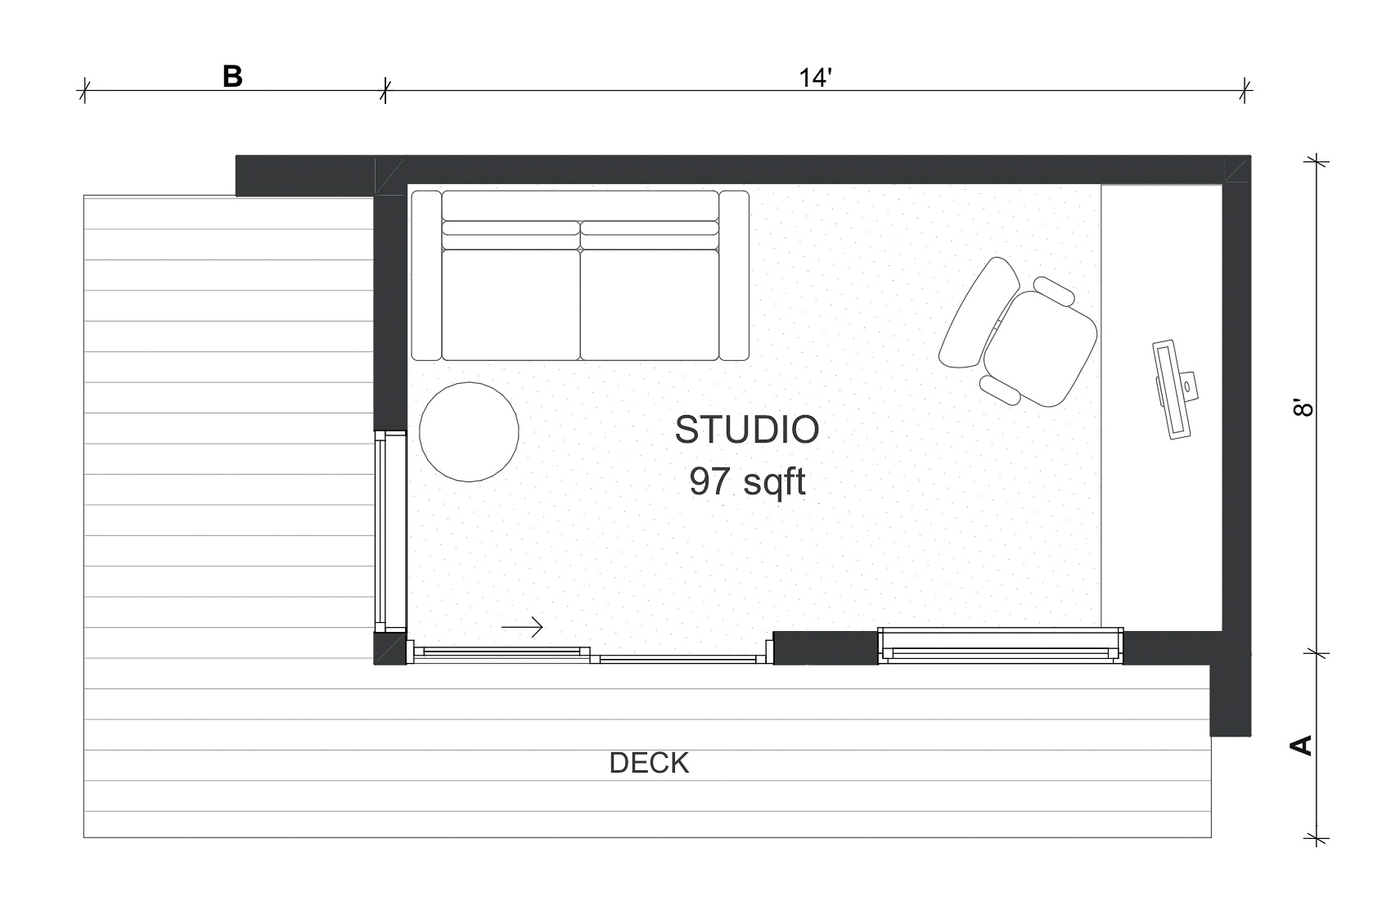
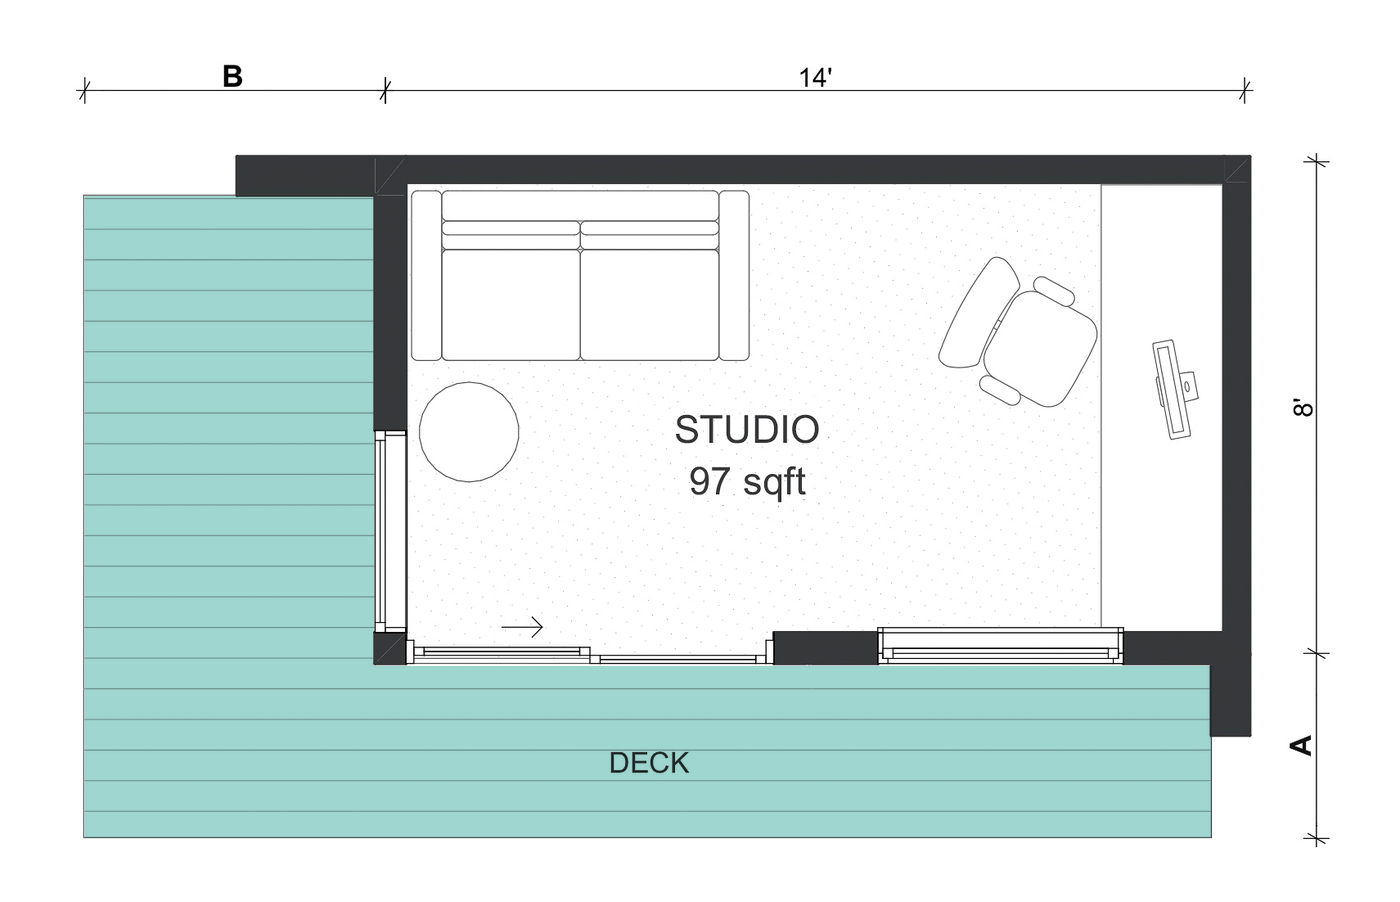
Presidio XO 0.4.0 (v4/): deck drawings shorter with the deck highlighted, visible Select button, step size in feet

Changed region(s): [[0.0614, 0.2173, 0.8907, 0.9313]]

diff --git a/v4/styles.css b/v4/styles.css
@@ -223,7 +223,17 @@ textarea.wm-input { min-height: 112px; resize: vertical; }
   display: block;
   background: var(--wm-teal-mist);
 }
-.photo.drawing img { aspect-ratio: 4 / 3; object-fit: contain; background: var(--wm-white); border: 1px solid var(--wm-teal-line); }
+/* Drawings: a short frame (the deck is what matters, not the studio) and a visible Select button
+   under it, so nobody has to guess that the drawing itself is the button. */
+.photo.drawing { display: grid; grid-template-columns: 1fr auto; column-gap: 12px; align-items: center; width: 100%; }
+.photo.drawing img { grid-column: 1 / -1; aspect-ratio: auto; height: 170px; object-fit: contain; background: var(--wm-white); border: 1px solid var(--wm-teal-line); }
+.photo.drawing .name, .photo.drawing .wm-tag, .photo.drawing .tag-q { grid-column: 1; justify-self: start; }
+.photo.drawing .pick { grid-column: 2; grid-row: 2 / span 2; margin-top: 8px; display: inline-flex; align-items: center; justify-content: center;
+  min-height: var(--wm-tap); min-width: 104px; padding: 0 18px; border-radius: var(--wm-radius-pill); border: 1px solid var(--wm-teal);
+  color: var(--wm-teal); background: var(--wm-white); font: 500 13px var(--wm-font); text-transform: uppercase; letter-spacing: .12px; }
+.photo.drawing .pick::before { content: "Select"; }
+.photo.drawing[aria-pressed="true"] .pick { background: var(--wm-teal); color: var(--wm-white); }
+.photo.drawing[aria-pressed="true"] .pick::before { content: "\2713  Selected"; }
 .photo[aria-pressed="true"] img { outline-color: var(--wm-teal); }
 .photo .name { display: block; margin-top: 8px; font-size: 14px; font-weight: 500; line-height: 1.3; }
 .photo .wm-tag { margin-top: 8px; }
@@ -761,3 +771,4 @@ body.zoom-open { overflow: hidden; }
 
 .wm-input[aria-invalid="true"] { border-color: #a33522; }
 .hint.dimension-error { color: #97301e; }
+.photo.drawing .badge { display: none; } /* the Select button shows the state */

diff --git a/v4/index.html b/v4/index.html
@@ -5,8 +5,8 @@
 <meta name="viewport" content="width=device-width, initial-scale=1">
 <meta name="theme-color" content="#108078">
 <title>Spec form</title>
-<link rel="stylesheet" href="wellmade-tokens.css?v=6b2f86b2">
-<link rel="stylesheet" href="styles.css?v=6b2f86b2">
+<link rel="stylesheet" href="wellmade-tokens.css?v=fe66de98">
+<link rel="stylesheet" href="styles.css?v=fe66de98">
 </head>
 <body>
 <div id="app" class="app"></div>
@@ -15,10 +15,10 @@
   <p>This form needs JavaScript. It still opens from this folder, with no install and no server.</p>
 </noscript>
 <!-- The spec: generated from spec/presidio-xo.json by check_spec.py. Edit the .json, never the .js. -->
-<script src="spec/presidio-xo.js?v=6b2f86b2"></script>
+<script src="spec/presidio-xo.js?v=fe66de98"></script>
 <!-- Delivery settings (receiver address, allowed email domains): not part of the spec. -->
-<script src="site-config.js?v=6b2f86b2"></script>
-<script src="engine/model.js?v=6b2f86b2"></script>
-<script src="engine/app.js?v=6b2f86b2"></script>
+<script src="site-config.js?v=fe66de98"></script>
+<script src="engine/model.js?v=fe66de98"></script>
+<script src="engine/app.js?v=fe66de98"></script>
 </body>
 </html>

diff --git a/v4/manager.html b/v4/manager.html
@@ -7,8 +7,8 @@
 <meta name="robots" content="noindex">
 <meta name="referrer" content="no-referrer">
 <title>Internal · Client link · v0.3</title>
-<link rel="stylesheet" href="wellmade-tokens.css?v=6b2f86b2">
-<link rel="stylesheet" href="styles.css?v=6b2f86b2">
+<link rel="stylesheet" href="wellmade-tokens.css?v=fe66de98">
+<link rel="stylesheet" href="styles.css?v=fe66de98">
 </head>
 <body>
 <!-- data-form: the form page the link opens, relative to this page. -->
@@ -17,10 +17,10 @@
   <p>This page needs JavaScript.</p>
 </noscript>
 <!-- The spec: generated from spec/presidio-xo.json by check_spec.py. Its "link" block names the fields. -->
-<script src="spec/presidio-xo.js?v=6b2f86b2"></script>
+<script src="spec/presidio-xo.js?v=fe66de98"></script>
 <!-- Delivery settings (receiver address, allowed email domains): not part of the spec. -->
-<script src="site-config.js?v=6b2f86b2"></script>
-<script src="engine/model.js?v=6b2f86b2"></script>
-<script src="engine/manager.js?v=6b2f86b2"></script>
+<script src="site-config.js?v=fe66de98"></script>
+<script src="engine/model.js?v=fe66de98"></script>
+<script src="engine/manager.js?v=fe66de98"></script>
 </body>
 </html>

diff --git a/v4/spec/presidio-xo.js b/v4/spec/presidio-xo.js
@@ -1,4 +1,4 @@
-/* GENERATED by check_spec.py from presidio-xo.json (sha256 db41ac37326222fc). Do not edit; edit the .json and run the check. */
+/* GENERATED by check_spec.py from presidio-xo.json (sha256 7f3f60358ce3606d). Do not edit; edit the .json and run the check. */
 window.SPEC_DATA = {
  "specId": "presidio-xo",
  "specVersion": "0.4.0",
@@ -397,12 +397,12 @@ window.SPEC_DATA = {
      "options": [
       {
        "id": "step",
-       "label": "Step only (96\" x 12\")",
+       "label": "Step only (1 \u00d7 8 ft)",
        "image": "images/deck-step.png"
       },
       {
        "id": "standard",
-       "label": "Standard corner deck (93 sqft)",
+       "label": "Standard corner deck (93 sq ft)",
        "image": "images/deck-standard.png",
        "price": 6900
       },

diff --git a/v4/engine/app.js b/v4/engine/app.js
@@ -173,7 +173,8 @@
       h("span", { class: "badge", "aria-hidden": "true", text: "✓" }),
       h("img", { src: opt.image, alt: "", "aria-hidden": "true" }),
       h("span", { class: "name", text: opt.label }),
-      st.tag ? quoteTag(st, h("span", { class: "wm-tag", text: st.tag })) : null
+      st.tag ? quoteTag(st, h("span", { class: "wm-tag", text: st.tag })) : null,
+      drawing ? h("span", { class: "pick", "aria-hidden": "true" }) : null
     ]);
   }
 
